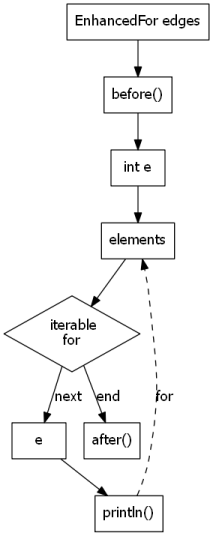
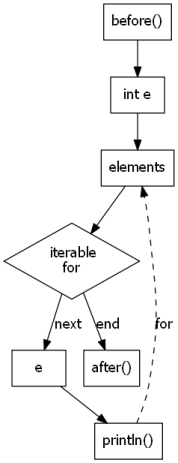
update readme images; use options map to store initial defaultKeepNode

Changed region(s): [[0.0, 0.0, 1.0, 0.9978], [0.8427, 0.514, 0.9551, 0.7257], [0.8427, 0.7257, 0.8708, 0.8164]]

diff --git a/src/test/java/com/example/input/AllTheControlFlowNodes.java b/src/test/java/com/example/input/AllTheControlFlowNodes.java
@@ -16,7 +16,6 @@ public class AllTheControlFlowNodes {
     } 
     */    
     // keep everything except for the expressionStatements and the blocks
-    // g v - o p tion: defaultKeepNode=true
     // gv-keepNode: startNode -expressionStatement -block -switchCase
 
     public void a() { };
@@ -40,14 +39,14 @@ public class AllTheControlFlowNodes {
         int[] elements = new int[5];
         
         // gv-graph
-        { // gv: Block edges
+        {
             a();
             b();
             c();
         }
         
         // gv-graph
-        { // gv: If edges
+        {
             before();
             if (condition) {
                 truePath();
@@ -58,7 +57,7 @@ public class AllTheControlFlowNodes {
         }
         
         // gv-graph
-        { // gv: For edges
+        {
             before();
             for (i = 0; i < 10; i++) {
                 println(i);
@@ -67,7 +66,7 @@ public class AllTheControlFlowNodes {
         }
         
         // gv-graph
-        { // gv: EnhancedFor edges
+        {
             before();
             for (int e : elements) {
                 println(e);
@@ -76,7 +75,7 @@ public class AllTheControlFlowNodes {
         }
         
         // gv-graph
-        { // gv: While Edges
+        {
             before();
             while (condition) {
                 println(i);
@@ -85,7 +84,7 @@ public class AllTheControlFlowNodes {
         }
 
         // gv-graph
-        { // gv: Do Edges
+        {
             before();
             do {
                 println(i);
@@ -94,7 +93,7 @@ public class AllTheControlFlowNodes {
         }
 
         // gv-graph
-        { // gv: Switch Edges
+        {
             before();
             switch(i) {
                 case 0: println(); // fallthrough
@@ -106,7 +105,7 @@ public class AllTheControlFlowNodes {
 
         // gv-graph
         // gv-option: centralSwitch=true
-        { // gv: Switch Edges (alternate)
+        {
             before();
             switch(i) {
                 case 0: println(); // fallthrough
@@ -118,17 +117,17 @@ public class AllTheControlFlowNodes {
 
         
         // gv-graph
-        { // gv: InfixExpression edges
+        {
             println(1 + 2 / 3);
         }
 
         // gv-graph
-        { // gv: UnaryExpression edges
+        {
             i++;
         }
 
         // gv-graph
-        { // gv: TernaryExpression edges
+        {
             println(condition ? i : j);
         }
         
@@ -164,7 +163,7 @@ public class AllTheControlFlowNodes {
         before(); // gv: the beginning { fillcolor: grey; } 
         someCode(); // gv.something: well hello there
         someOtherCode(true); // gv.something.special: well hello there again
-        someOtherCode(false); // gv#unique: righteo then
+        someOtherCode(false); // gv#unique.something: righteo then
     }
     
 

diff --git a/src/main/java/com/randomnoun/build/javaToGraphviz/astToDag/AstToDagVisitor.java b/src/main/java/com/randomnoun/build/javaToGraphviz/astToDag/AstToDagVisitor.java
@@ -65,7 +65,7 @@ public class AstToDagVisitor extends ASTVisitor {
     List<GvComment> nextLineComments = new ArrayList<>(); 
     List<GvComment> nextDagComments = new ArrayList<>();
     KeepNodeMatcher keepNodeMatcher = null;
-    Map<String, String> options = new HashMap<>();
+    Map<String, String> options = null;
     
     
     // Map of line number -> list of ASTs that start / end on that line
@@ -89,6 +89,9 @@ public class AstToDagVisitor extends ASTVisitor {
         cu.accept(lv);
         startLineNumberAsts = lv.getStartLineNumberAstsMap();
         endLineNumberAsts = lv.getEndLineNumberAstsMap();
+        
+        this.options = new HashMap<>();
+        options.put("defaultKeepNode", defaultKeepNode ? "true" : "false");
     }
     
     public Dag getDag() { 

diff --git a/README.md b/README.md
@@ -124,7 +124,7 @@ e.g.
 before(); // gv: the beginning { fillcolor: something; } 
 someCode(); // gv.something: well hello there
 someOtherCode(true); // gv.something.special: well hello there again
-someOtherCode(false); // gv#unique: righteo then
+someOtherCode(false); // gv#unique.something: righteo then
 </pre>
 would appear as:
 
